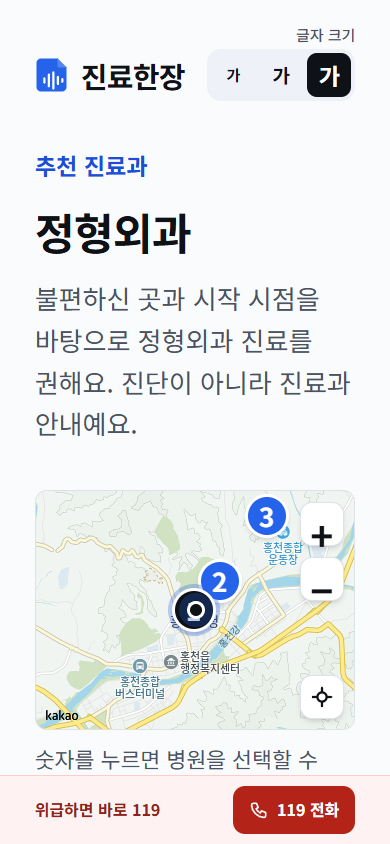
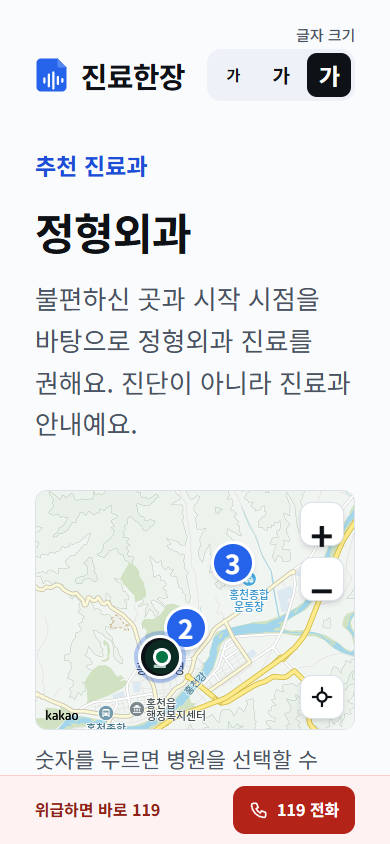
Feat: 현재 위치 점을 초록색으로 바꿔 병원 마커와 구별
Refs #103

diff --git a/src/components/map/markerStyle.ts b/src/components/map/markerStyle.ts
@@ -7,6 +7,6 @@ export function hospitalMarkerClassName(selected: boolean) {
     : `${base} bg-brand`;
 }
 
-// 현재 위치는 진한 중심점, 흰 테두리, 옅은 바깥 고리입니다. 번호가 든 병원 마커보다 작아 구별됩니다.
+// 현재 위치는 초록 중심점, 흰 테두리, 옅은 바깥 고리입니다. 파란 번호 마커·진한 선택 마커와 색과 크기로 구별됩니다.
 export const userLocationClassName =
-  "pointer-events-none block h-[18px] w-[18px] rounded-full border-[3px] border-white bg-ink shadow-md ring-[8px] ring-brand/25";
+  "pointer-events-none block h-[18px] w-[18px] rounded-full border-[3px] border-white bg-success shadow-md ring-[8px] ring-success/25";
